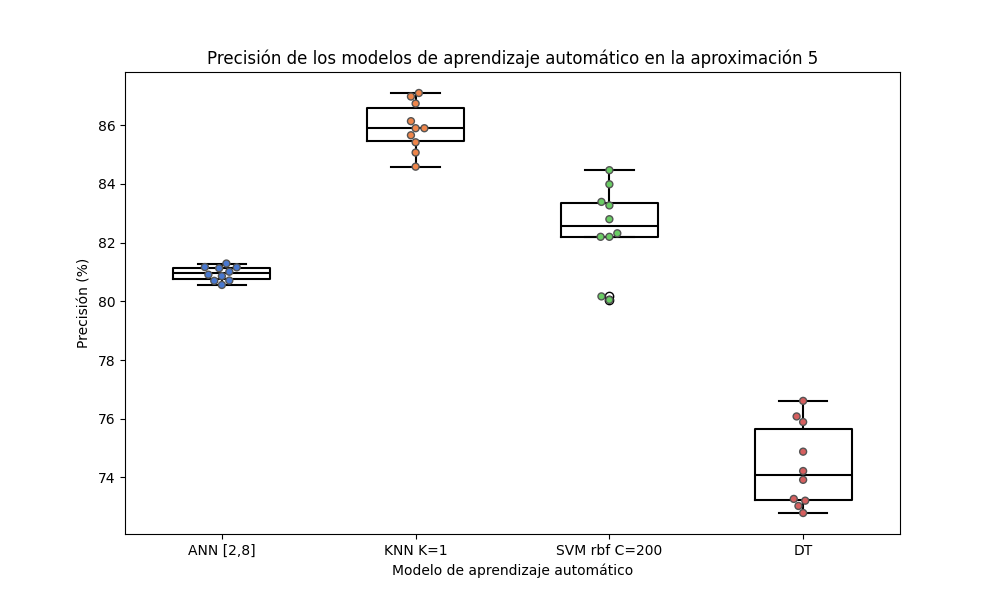
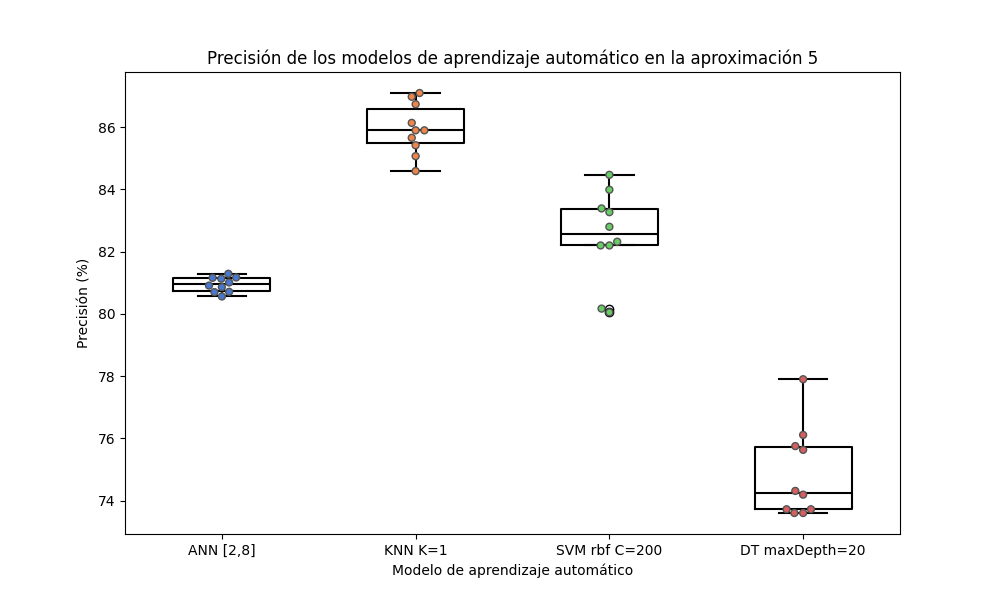
Añadidos DT en grafica 5

diff --git a/swarm_plot.py b/swarm_plot.py
@@ -220,16 +220,16 @@ data = [
     ["SVM rbf C=200", 83.39, 5],
     ["SVM rbf C=200", 83.99, 5],
 
-    ["DT", 74.22, 5],
-    ["DT", 72.79, 5],
-    ["DT", 73.27, 5],
-    ["DT", 76.61, 5],
-    ["DT", 75.89, 5],
-    ["DT", 73.03, 5],
-    ["DT", 73.21, 5],
-    ["DT", 73.92, 5],
-    ["DT", 74.88, 5],
-    ["DT", 76.08, 5],
+    ["DT maxDepth=20", 74.31, 5],
+    ["DT maxDepth=20", 73.60, 5],
+    ["DT maxDepth=20", 73.72, 5],
+    ["DT maxDepth=20", 74.19, 5],
+    ["DT maxDepth=20", 73.72, 5],
+    ["DT maxDepth=20", 77.90, 5],
+    ["DT maxDepth=20", 75.63, 5],
+    ["DT maxDepth=20", 73.60, 5],
+    ["DT maxDepth=20", 76.11, 5],
+    ["DT maxDepth=20", 75.75, 5],
 ]
 
 df = pd.DataFrame(data, columns=['Modelo de aprendizaje automático', 'Precisión', 'Aproximación'])
